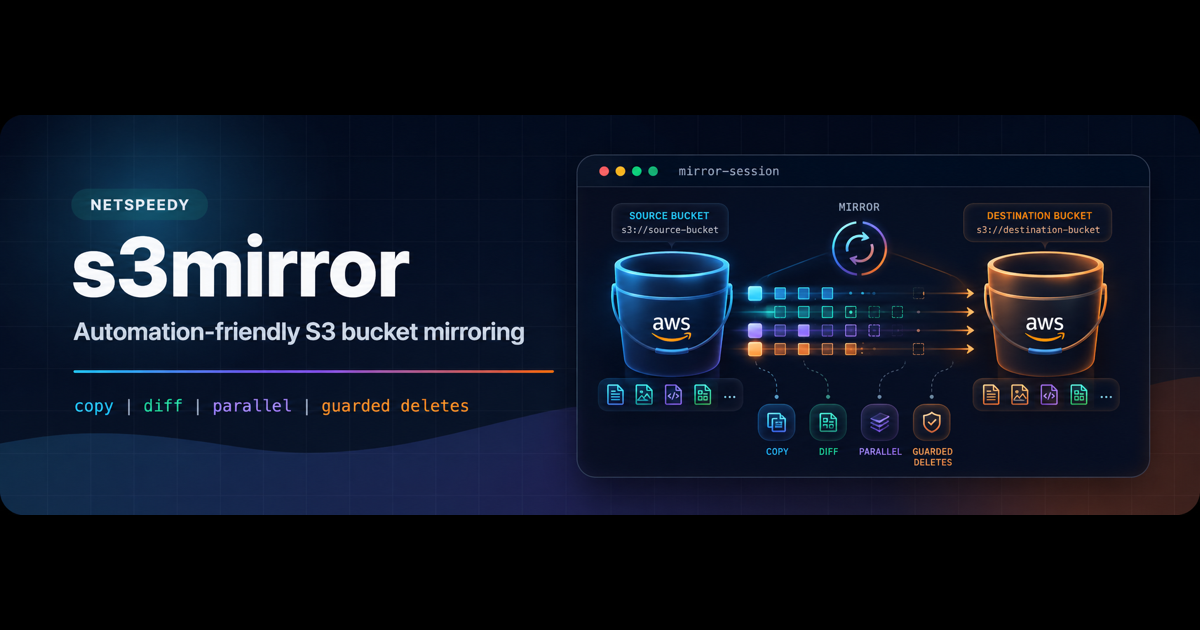
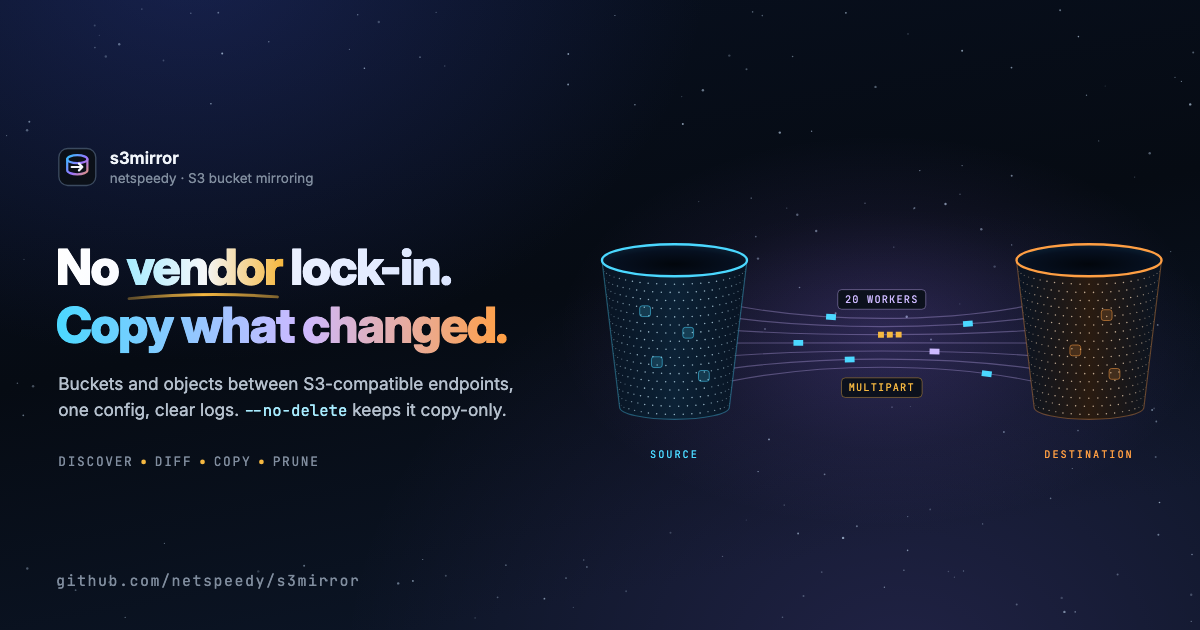
docs: generate the social cards from the README hero (#19)
The project website still shared the old artwork as its og:image, and GitHub had no
social preview set, so links to the repo showed GitHub's generated default card. The hero
generator now writes both cards from the hero itself: the same copy column and scene,
recomposed and frozen at the reduced-motion rest frame, with the repo's address along the
bottom.

website/public/og-image.png (with its SVG) is 1200x630, the size the site's meta tags and
check script already expect. assets/s3mirror-social-preview.png is 1280x640 for GitHub's social
preview, which has no API, so it gets uploaded by hand in the repository settings. The PNGs
are rendered with headless Chrome, which draws the embedded fonts exactly, and make
readme-hero rebuilds the hero and both cards together. The og:image and twitter:image cache
keys are bumped so link previews refetch, and their alt text describes the new card.

The hero itself is unchanged: rebuilding it gives the same bytes. The website's check script
and build pass with the new card. The README's note on rebuilding the banner now covers the
cards.

diff --git a/website/index.html b/website/index.html
@@ -14,17 +14,17 @@
     <meta property="og:title" content="s3mirror" />
     <meta property="og:description" content="Automation-friendly S3 bucket mirroring with one script, one config, and clear logs." />
     <meta property="og:url" content="https://netspeedy.github.io/s3mirror/" />
-    <meta property="og:image" content="https://netspeedy.github.io/s3mirror/og-image.png?v=1" />
-    <meta property="og:image:secure_url" content="https://netspeedy.github.io/s3mirror/og-image.png?v=1" />
+    <meta property="og:image" content="https://netspeedy.github.io/s3mirror/og-image.png?v=2" />
+    <meta property="og:image:secure_url" content="https://netspeedy.github.io/s3mirror/og-image.png?v=2" />
     <meta property="og:image:type" content="image/png" />
     <meta property="og:image:width" content="1200" />
     <meta property="og:image:height" content="630" />
-    <meta property="og:image:alt" content="s3mirror share card showing source and destination S3 buckets being mirrored." />
+    <meta property="og:image:alt" content="s3mirror share card: No vendor lock-in. Copy what changed. Beside it, two buckets joined by parallel worker lanes." />
     <meta name="twitter:card" content="summary_large_image" />
     <meta name="twitter:title" content="s3mirror" />
     <meta name="twitter:description" content="Automation-friendly S3 bucket mirroring with one script, one config, and clear logs." />
-    <meta name="twitter:image" content="https://netspeedy.github.io/s3mirror/og-image.png?v=1" />
-    <meta name="twitter:image:alt" content="s3mirror share card showing source and destination S3 buckets being mirrored." />
+    <meta name="twitter:image" content="https://netspeedy.github.io/s3mirror/og-image.png?v=2" />
+    <meta name="twitter:image:alt" content="s3mirror share card: No vendor lock-in. Copy what changed. Beside it, two buckets joined by parallel worker lanes." />
     <title>s3mirror | Automation-friendly S3 bucket mirroring</title>
     <script type="module" src="./main.js"></script>
   </head>

diff --git a/scripts/readme/build_readme_hero.py b/scripts/readme/build_readme_hero.py
@@ -20,8 +20,12 @@ from __future__ import annotations
 
 import base64
 import math
+import os
 import random
 import re
+import shutil
+import subprocess
+import tempfile
 import urllib.parse
 import urllib.request
 import xml.etree.ElementTree as ET
@@ -672,15 +676,173 @@ def build_svg(spec: dict = CARD) -> str:
     return "\n".join(lines) + "\n"
 
 
+# Social cards
+
+# Both cards are the hero recomposed and frozen at its rest frame. The website's og:image is
+# 1200x630, the size link previews expect, and is only written when the repo has a website.
+# The GitHub social preview is 1280x640 and is uploaded by hand under Settings > General >
+# Social preview, since GitHub has no API for it.
+REPO = "s3mirror"
+OG_CARD = ROOT / "website" / "public" / "og-image"
+PREVIEW_CARD = ROOT / "assets" / f"{REPO}-social-preview"
+SVG_NS = "http://www.w3.org/2000/svg"
+CHROME_CANDIDATES = (
+    "/Applications/Google Chrome.app/Contents/MacOS/Google Chrome",
+    "/Applications/Chromium.app/Contents/MacOS/Chromium",
+    "google-chrome",
+    "chromium",
+    "chromium-browser",
+)
+
+
+def build_social_svg(hero: str, width: int, height: int) -> str:
+    """The hero's copy column on the left and its scene on the right, scaled to fill the card."""
+    ET.register_namespace("", SVG_NS)
+    root = ET.fromstring(hero)
+
+    def tag(name: str) -> str:
+        return f"{{{SVG_NS}}}{name}"
+
+    children = list(root)
+    defs = root.find(tag("defs"))
+    style = defs.find(tag("style"))
+    style.text = (style.text or "") + "  *{animation:none !important}\n    "
+    frame = next(c for c in children if c.get("clip-path") == "url(#frame)")
+    # Everything after the clipped group, bar the frame's outline, is the copy column.
+    copy_els = [
+        c
+        for c in children[children.index(frame) + 1 :]
+        if not (c.tag == tag("rect") and c.get("fill") == "none")
+    ]
+    background = list(frame)
+    nebulae = [c for c in background[1:3] if c.tag == tag("ellipse")]
+    scene_els = background[
+        5:
+    ]  # after the base, the two nebulae and the two star groups
+
+    wide = width >= 1280
+    s_copy, s_scene = (1.2, 1.04) if wide else (1.12, 0.98)
+    margin = 60 if wide else 56
+    card = ET.Element(
+        tag("svg"),
+        {
+            "viewBox": f"0 0 {width} {height}",
+            "width": str(width),
+            "height": str(height),
+            "role": "img",
+            "aria-labelledby": "title desc",
+        },
+    )
+    card.extend([root.find(tag("title")), root.find(tag("desc")), defs])
+    ET.SubElement(
+        card,
+        tag("rect"),
+        {"width": str(width), "height": str(height), "fill": "url(#spaceBg)"},
+    )
+    glow = ET.SubElement(
+        card, tag("g"), {"transform": f"scale({width / 1200:.4f} {height / 400:.4f})"}
+    )
+    glow.extend(nebulae)
+    rng = random.Random(STAR_SEED)
+    stars = ET.SubElement(card, tag("g"), {"fill": "#CFE6FF"})
+    placed = 0
+    while placed < 150:
+        x, y = rng.uniform(6, width - 6), rng.uniform(6, height - 6)
+        if 40 <= x <= 680 and 110 <= y <= 530:  # keep the copy column clear
+            continue
+        placed += 1
+        radius = rng.choice([0.6, 0.7, 0.8, 0.9, 1.0, 1.2])
+        opacity = f"{rng.uniform(0.2, 0.65):.2f}"
+        ET.SubElement(
+            stars,
+            tag("circle"),
+            {"cx": num(x), "cy": num(y), "r": num(radius), "opacity": opacity},
+        )
+    scene_x = width - 12 - 1200 * s_scene
+    scene_y = (height - 400 * s_scene) / 2 + 6
+    scene = ET.SubElement(
+        card,
+        tag("g"),
+        {"transform": f"translate({num(scene_x)} {num(scene_y)}) scale({s_scene})"},
+    )
+    scene.extend(scene_els)
+    copy_x = margin - 46 * s_copy
+    copy_y = (height - 300 * s_copy) / 2 - 30 * s_copy - 8
+    column = ET.SubElement(
+        card,
+        tag("g"),
+        {"transform": f"translate({num(copy_x)} {num(copy_y)}) scale({s_copy})"},
+    )
+    column.extend(copy_els)
+    footer = ET.SubElement(
+        card,
+        tag("text"),
+        {
+            "class": "mono",
+            "x": str(margin),
+            "y": str(height - 44),
+            "font-size": "15",
+            "letter-spacing": "1.5",
+            "fill": "#808D9E",
+        },
+    )
+    footer.text = f"github.com/netspeedy/{REPO}"
+    return ET.tostring(card, encoding="unicode") + "\n"
+
+
+def render_png(svg_path: Path, png_path: Path, width: int, height: int) -> None:
+    """Screenshot the card in headless Chrome, which renders the embedded fonts exactly."""
+    chrome = os.environ.get("CHROME") or next(
+        (c for c in CHROME_CANDIDATES if Path(c).exists() or shutil.which(c)), None
+    )
+    if not chrome:
+        raise SystemExit(
+            "the social cards need Chrome or Chromium to render; set CHROME"
+        )
+    with tempfile.TemporaryDirectory() as profile:
+        subprocess.run(
+            [
+                chrome,
+                "--headless=new",
+                "--disable-gpu",
+                "--hide-scrollbars",
+                f"--user-data-dir={profile}",
+                f"--window-size={width},{height}",
+                f"--screenshot={png_path}",
+                svg_path.resolve().as_uri(),
+            ],
+            check=True,
+            capture_output=True,
+        )
+
+
+def write_social_cards(hero: str) -> None:
+    cards = [(PREVIEW_CARD, 1280, 640, False)]
+    if (ROOT / "website").is_dir():
+        cards.insert(0, (OG_CARD, 1200, 630, True))
+    for base, width, height, keep_svg in cards:
+        svg = build_social_svg(hero, width, height)
+        svg = svg.replace("__FONT_FACES__", font_faces(svg))
+        ET.fromstring(svg)
+        base.parent.mkdir(parents=True, exist_ok=True)
+        png = base.with_suffix(".png")
+        with tempfile.TemporaryDirectory() as tmp:
+            svg_path = base.with_suffix(".svg") if keep_svg else Path(tmp) / "card.svg"
+            svg_path.write_text(svg, encoding="utf-8")
+            render_png(svg_path, png, width, height)
+        print(f"Wrote {png.relative_to(ROOT)} ({width}x{height})")
+
+
 def main() -> None:
-    svg = build_svg()
-    svg = svg.replace("__FONT_FACES__", font_faces(svg))
+    hero = build_svg()
+    svg = hero.replace("__FONT_FACES__", font_faces(hero))
     if "http://" in svg.replace("http://www.w3.org/2000/svg", "") or "https://" in svg:
         raise SystemExit("external reference found in the hero SVG")
     ET.fromstring(svg)  # well-formed, or this raises
     OUTPUT.parent.mkdir(parents=True, exist_ok=True)
     OUTPUT.write_text(svg, encoding="utf-8")
     print(f"Wrote {OUTPUT.relative_to(ROOT)} ({len(svg.encode()) / 1024:.1f} KiB)")
+    write_social_cards(hero)
 
 
 if __name__ == "__main__":

diff --git a/README.md b/README.md
@@ -347,11 +347,15 @@ tag is pushed, after checking that the tag is on `main` and matches
 image, the Actions and the website weekly, and green Dependabot pull requests are
 merged automatically.
 
-The banner at the top of this page is generated. Edit the copy, layout or timing in
-`scripts/readme/build_readme_hero.py` and run `make readme-hero` to rebuild
-`assets/s3mirror-readme-hero.svg`. It downloads the font subsets from Google Fonts,
-so it needs network access. If you change the headline's words, measure them again
-with `scripts/readme/measure_headline.py`, which explains its own dependencies.
+The banner at the top of this page and the social cards are generated. Edit the
+copy, layout or timing in `scripts/readme/build_readme_hero.py` and run `make
+readme-hero`. That rebuilds `assets/s3mirror-readme-hero.svg`, the website's
+`website/public/og-image.png` and `assets/s3mirror-social-preview.png`, which is the
+image for GitHub's social preview and is uploaded by hand in the repository
+settings. It downloads the font subsets from Google Fonts, so it needs network
+access, and it renders the cards with headless Chrome or Chromium. If you change the
+headline's words, measure them again with `scripts/readme/measure_headline.py`,
+which explains its own dependencies.
 
 Contributions are welcome. Checksum-aware change detection, mirroring metadata,
 tags or storage class, tests against mocked S3 endpoints and notes on particular
